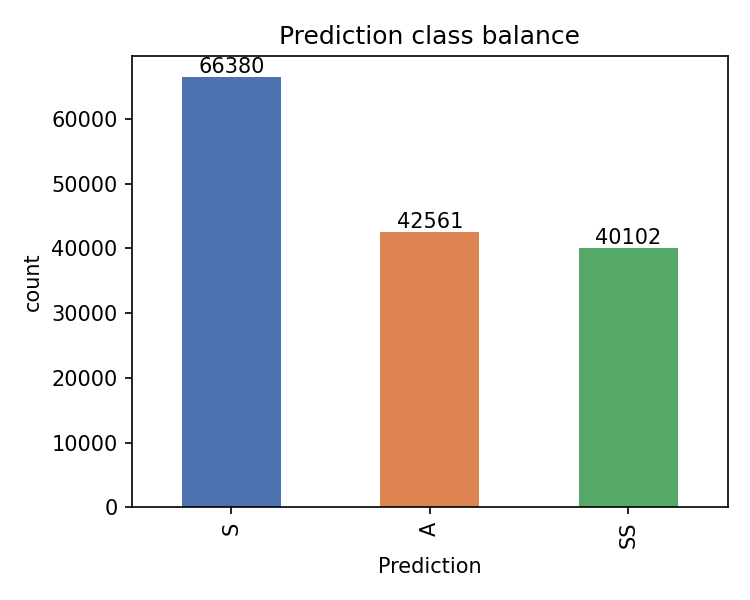
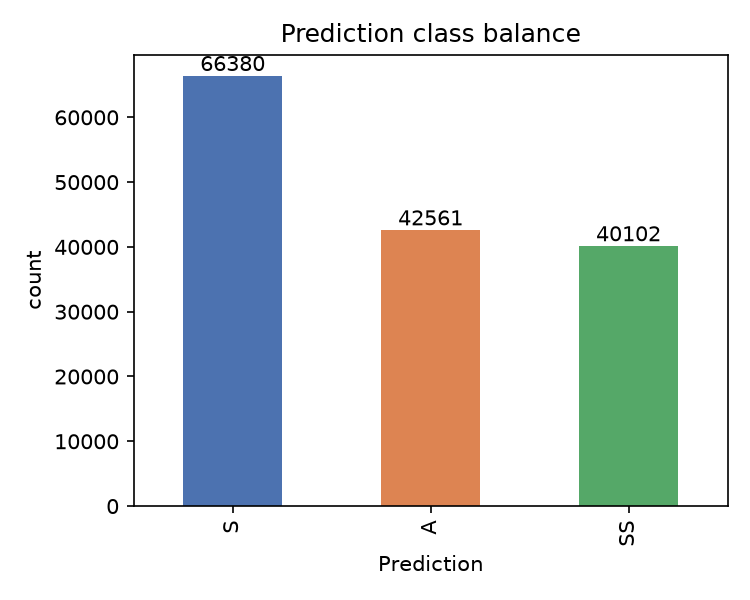
Data visualization done

diff --git a/src/refine.py b/src/refine.py
@@ -1,0 +1,29 @@
+import pandas as pd
+
+RAW_PATH = "data/raw/ugransome.csv"
+OUT_PATH = "data/processed/ugransome.csv"
+
+df = pd.read_csv(RAW_PATH)
+print("Before:", df.shape)
+
+# check exact values before touching them
+print(df["Threats"].unique())
+
+# 1. drop invalid Time rows
+df = df[df["Time"] >= 0]
+
+# 2. drop invalid ExpAddress placeholder rows
+df = df[df["ExpAddress"] != "1"]
+
+# 3. fix Threats misspellings (exact match, not substring)
+df["Threats"] = df["Threats"].replace({
+    "Bonet": "Botnet",
+    "NerisBonet": "NerisBotnet",
+})
+
+df = df.reset_index(drop=True)
+print("After:", df.shape)
+print(df["Threats"].unique())
+
+df.to_csv(OUT_PATH, index=False)
+print(f"Saved to {OUT_PATH}")

diff --git a/results/eda_summary.md b/results/eda_summary.md
@@ -32,8 +32,8 @@ IPaddress           4
 Port                4
 SeddAddress         6
 ExpAddress          7
-Clusters            9
 Flag                9
+Clusters            9
 Threats             9
 Family             17
 Time               87
